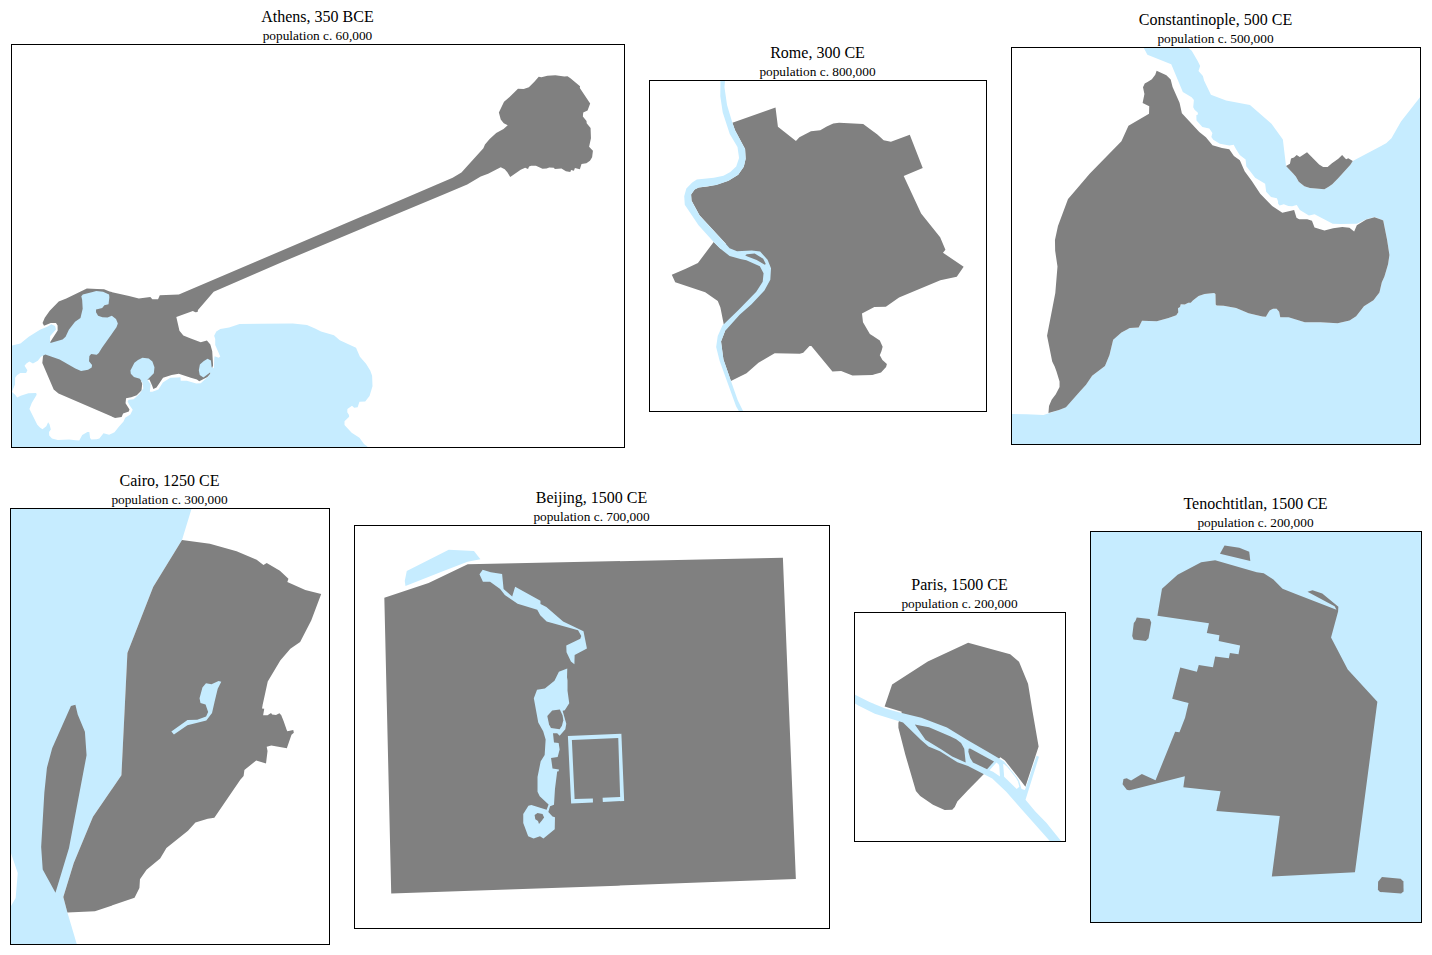
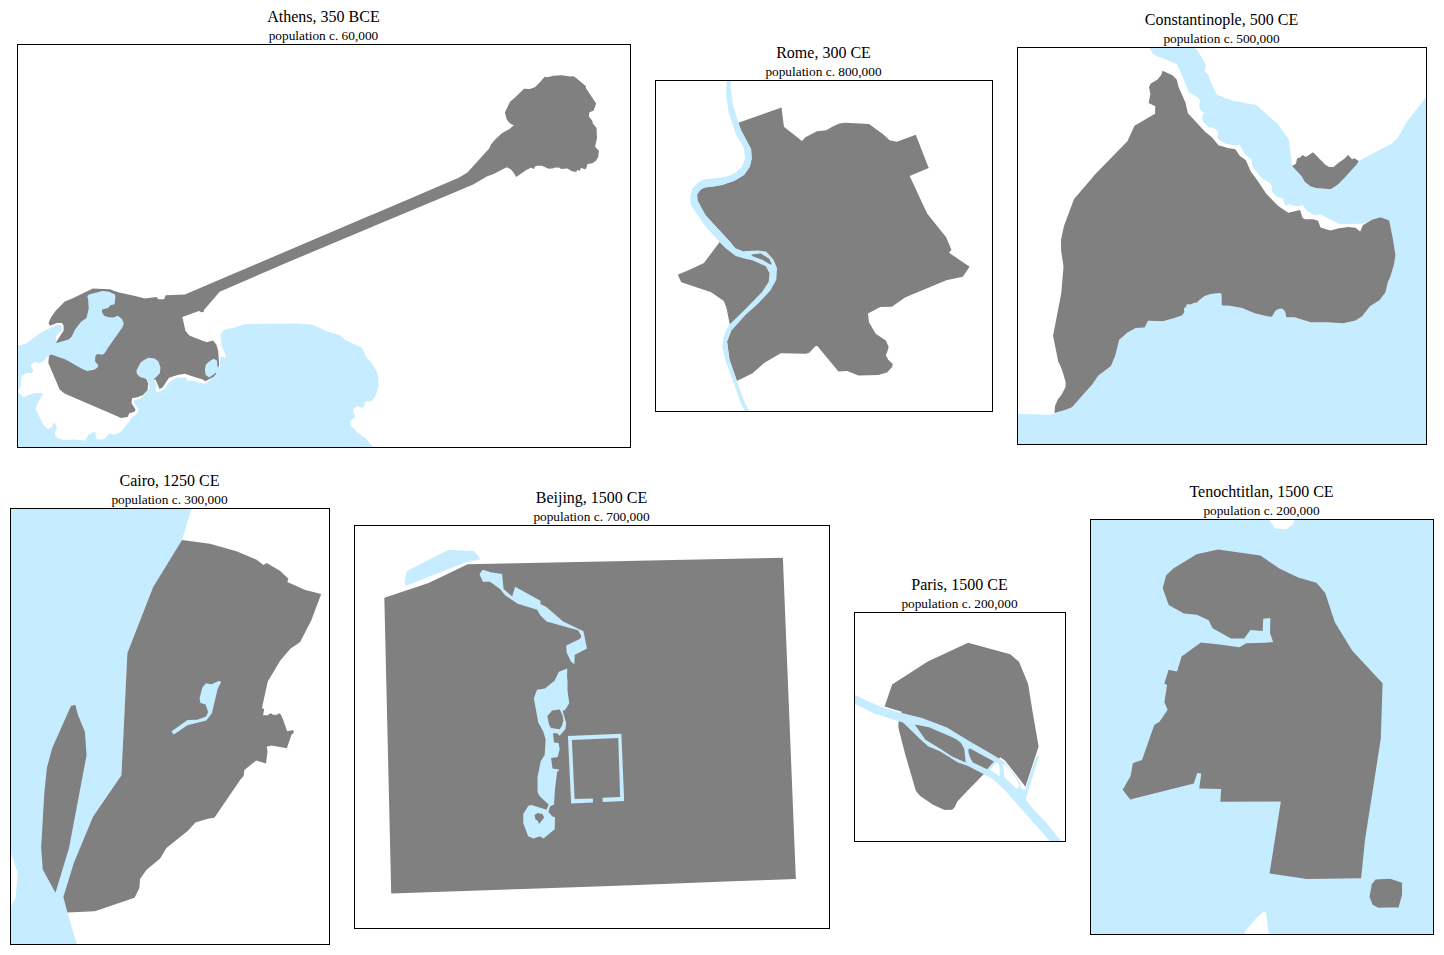
walledcityscale: Tenochtitlan corrections based on https://tenochtitlan.thomaskole.nl/ / https://retratodetenochtitlan.mx/

diff --git a/walledcityscale/rtoverlay/index.html b/walledcityscale/rtoverlay/index.html
@@ -107,8 +107,8 @@ function deselectall() {
     <img class="rtmap" src="seville1500-rt.svg" width="168" height="216" style="position: absolute; z-index: 2;">
     <img class="map" src="seville1500.svg" title="Seville 1500 CE" alt="Seville 1500 CE map" width="168" height="216"></span>
 <span id="TENOCHTITLAN1500" style="display: inline-block;">Tenochtitlan, 1500 CE<br><small>population c. 200,000</small><br>
-    <img class="rtmap" src="tenochtitlan1500-rt.svg" width="330" height="390" style="position: absolute; z-index: 2;">
-    <img class="map" src="tenochtitlan1500.svg" title="Tenochtitlan 1500 CE" alt="Tenochtitlan 1500 CE map" width="330" height="390"></span>
+    <img class="rtmap" src="tenochtitlan1500-rt.svg" width="342" height="414" style="position: absolute; z-index: 2;">
+    <img class="map" src="tenochtitlan1500.svg" title="Tenochtitlan 1500 CE" alt="Tenochtitlan 1500 CE map" width="342" height="414"></span>
 <span id="MOSCOW1600" style="display: inline-block;">Moscow, 1600 CE<br><small>population c. 100,000</small><br>
     <img class="rtmap" src="moscow1600-rt.svg" width="345" height="360" style="position: absolute; z-index: 2;">
     <img class="map" src="moscow1600.svg" title="Moscow 1600 CE" alt="Moscow 1600 CE map" width="345" height="360"></span>
@@ -148,4 +148,4 @@ Population estimates extremely approximate. Please send any corrections or quest
 See also: <a href="..">rapid transit timelines</a> - <a href="../misc/">miscellaneous timelines and maps</a>
 <p>
 <div style="font-size: x-small;">By <a href="https://alexander.co.tz/">Alexander Rapp</a> (<a rel="license" href="http://creativecommons.org/licenses/by-sa/2.0/">CC-BY-SA</a>) based on map data by <a href="http://www.openstreetmap.org">OpenStreetMap</a> and Wikimedia
-(<a href="https://etc.usf.edu/maps/pages/8300/8391/8391.htm">1</a>,<a href="https://commons.wikimedia.org/wiki/File:Map_ancient_athens.png">2</a>,<a href="https://commons.wikimedia.org/wiki/File:Plan_of_Alexandria_c_30_BC_Otto_Puchstein_1890s_EN.svg">3</a>,<a href="https://commons.wikimedia.org/wiki/File:Map_of_ancient_Rome.svg">4</a>,<a href="https://www.persee.fr/doc/crai_0065-0536_2012_num_156_2_93599">5</a>,<a href="https://commons.wikimedia.org/wiki/File:Fes_sous_les_Almohades.PNG">6</a>,<a href="https://commons.wikimedia.org/wiki/File:Tenochtitlan.jpg">7</a>,<a href="https://commons.wikimedia.org/wiki/File:MurallasSevilla_completo.png">8</a>,<a href="https://commons.wikimedia.org/wiki/File:Hampi_Murray.jpg">9</a>) contributors and historical sources.</div></body></html>
+(<a href="https://etc.usf.edu/maps/pages/8300/8391/8391.htm">1</a>,<a href="https://commons.wikimedia.org/wiki/File:Map_ancient_athens.png">2</a>,<a href="https://commons.wikimedia.org/wiki/File:Plan_of_Alexandria_c_30_BC_Otto_Puchstein_1890s_EN.svg">3</a>,<a href="https://commons.wikimedia.org/wiki/File:Map_of_ancient_Rome.svg">4</a>,<a href="https://www.persee.fr/doc/crai_0065-0536_2012_num_156_2_93599">5</a>,<a href="https://commons.wikimedia.org/wiki/File:Fes_sous_les_Almohades.PNG">6</a>,<a href="https://tenochtitlan.thomaskole.nl/">7</a>,<a href="https://commons.wikimedia.org/wiki/File:MurallasSevilla_completo.png">8</a>,<a href="https://commons.wikimedia.org/wiki/File:Hampi_Murray.jpg">9</a>) contributors and historical sources.</div></body></html>

diff --git a/walledcityscale/index.html b/walledcityscale/index.html
@@ -114,7 +114,7 @@ function deselectall() {
 <span id="SEVILLE1500" style="display: inline-block;">Seville, 1500 CE<br><small>population c. 60,000</small><br>
     <img class="map" src="seville1500.svg" title="Seville 1500 CE" alt="Seville 1500 CE map" width="168" height="216"></span>
 <span id="TENOCHTITLAN1500" style="display: inline-block;">Tenochtitlan, 1500 CE<br><small>population c. 200,000</small><br>
-    <img class="map" src="tenochtitlan1500.svg" title="Tenochtitlan 1500 CE" alt="Tenochtitlan 1500 CE map" width="330" height="390"></span>
+    <img class="map" src="tenochtitlan1500.svg" title="Tenochtitlan 1500 CE" alt="Tenochtitlan 1500 CE map" width="342" height="414"></span>
 <span id="VENICE1500" style="display: inline-block;">Venice, 1500 CE<br><small>population c. 150,000</small><br>
     <img class="map" src="venice1500.svg" title="Venice 1500 CE" alt="Venice 1500 CE map" width="294" height="318"></span>
 <span id="VIJAYANAGARA1500" style="display: inline-block;">Vijayanagara, 1500 CE<br><small>population c. 200,000</small><br>
@@ -174,4 +174,4 @@ Population estimates extremely approximate. Please send any corrections or quest
 See also: <a href="..">rapid transit timelines</a> - <a href="../misc/">miscellaneous timelines and maps</a>
 <p>
 <div style="font-size: x-small;">By <a href="https://alexander.co.tz/">Alexander Rapp</a> (<a rel="license" href="http://creativecommons.org/licenses/by-sa/2.0/">CC-BY-SA</a>) based on map data by <a href="http://www.openstreetmap.org">OpenStreetMap</a> and Wikimedia
-(<a href="https://etc.usf.edu/maps/pages/8300/8391/8391.htm">1</a>,<a href="https://commons.wikimedia.org/wiki/File:Map_ancient_athens.png">2</a>,<a href="https://commons.wikimedia.org/wiki/File:Plan_of_Alexandria_c_30_BC_Otto_Puchstein_1890s_EN.svg">3</a>,<a href="https://commons.wikimedia.org/wiki/File:Map_of_ancient_Rome.svg">4</a>,<a href="https://www.persee.fr/doc/crai_0065-0536_2012_num_156_2_93599">5</a>,<a href="https://commons.wikimedia.org/wiki/File:Fes_sous_les_Almohades.PNG">6</a>,<a href="https://commons.wikimedia.org/wiki/File:Tenochtitlan.jpg">7</a>,<a href="https://commons.wikimedia.org/wiki/File:MurallasSevilla_completo.png">8</a>,<a href="https://commons.wikimedia.org/wiki/File:Hampi_Murray.jpg">9</a>) contributors and historical sources.</div></body></html>
+(<a href="https://etc.usf.edu/maps/pages/8300/8391/8391.htm">1</a>,<a href="https://commons.wikimedia.org/wiki/File:Map_ancient_athens.png">2</a>,<a href="https://commons.wikimedia.org/wiki/File:Plan_of_Alexandria_c_30_BC_Otto_Puchstein_1890s_EN.svg">3</a>,<a href="https://commons.wikimedia.org/wiki/File:Map_of_ancient_Rome.svg">4</a>,<a href="https://www.persee.fr/doc/crai_0065-0536_2012_num_156_2_93599">5</a>,<a href="https://commons.wikimedia.org/wiki/File:Fes_sous_les_Almohades.PNG">6</a>,<a href="https://tenochtitlan.thomaskole.nl/">7</a>,<a href="https://commons.wikimedia.org/wiki/File:MurallasSevilla_completo.png">8</a>,<a href="https://commons.wikimedia.org/wiki/File:Hampi_Murray.jpg">9</a>) contributors and historical sources.</div></body></html>
